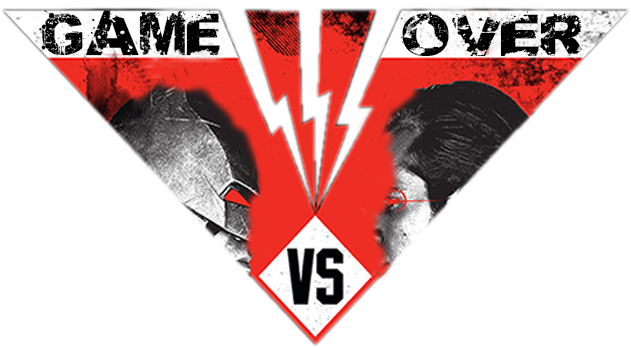
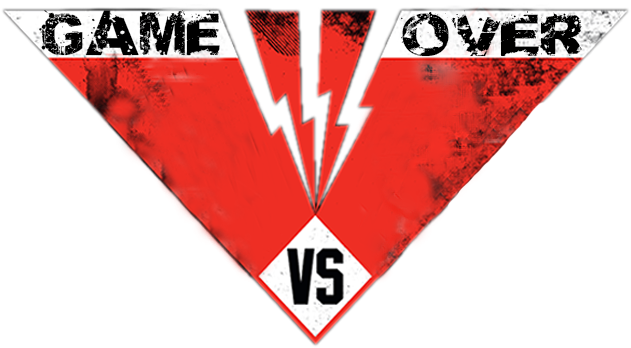
GameOver state finished

Changed region(s): [[0.1506, 0.2011, 0.4216, 0.8046], [0.5721, 0.1724, 0.8732, 0.7759]]

diff --git a/RoseWaterRickey/js/gameOver.js b/RoseWaterRickey/js/gameOver.js
@@ -24,15 +24,26 @@ Game.GameOver.prototype = (function () {
         },
         create: function () {
             var batmanGO,
-                supermanGO;
-            this.game.add.sprite(0, 0, 'background');
+                supermanGO,
+                lights,
+                texts;
+            //this.game.add.sprite(0, 0, 'background');
+            this.game.add.sprite(85, 50, 'gameOver');
+            texts = this.game.add.sprite(40, 150, 'texts');
+            texts.scale.setTo(0.9, 0.9);
+            //animate the yoyo effect
+            this.game.add.tween(texts).to({y: 200}, 500, Phaser.Easing.Cubic.InOut, true, 100, 2, true);
+
+            //rotating figures
             batmanGO = this.game.add.sprite(80, 460, 'batman');
             batmanGO.anchor.setTo(0, 0.9);
             batmanGO.angle = -50;
             this.game.add.tween(batmanGO).to({angle: 0}, 100, Phaser.Easing.Linear.None, true);
             this.game.add.tween(batmanGO.scale).to({x: 0.95, y: 0.95}, 100, Phaser.Easing.Linear.None, true);
-            supermanGO = this.game.add.sprite(600, 1, 'superman');
-            supermanGO.anchor.setTo(0.9, 0);
+            supermanGO = this.game.add.sprite(670, 450, 'superman');
+            supermanGO.anchor.setTo(0.9, 0.9);
+            supermanGO.angle = 50;
+            this.game.add.tween(supermanGO).to({angle: 0}, 100, Phaser.Easing.Linear.None, true);
 
 
             music = this.game.add.audio('stamp');
@@ -44,7 +55,10 @@ Game.GameOver.prototype = (function () {
                 winnerStampX = 120;   //120
             }
             this.game.time.events.add(Phaser.Timer.SECOND * 0.5, this.announceWinner, this.game);
-            this.game.add.button(300, 455, 'menu', this.returnToMenu, this.game).scale.setTo(0.75, 0.75);
+            lights = this.game.add.sprite(-10, 348, 'lightsDown');
+            //lights.scale.setTo(0.8, 0.8);
+
+            this.game.add.button(260, 480, 'menu', this.returnToMenu, this.game).scale.setTo(0.75, 0.75);
 
 
         },
